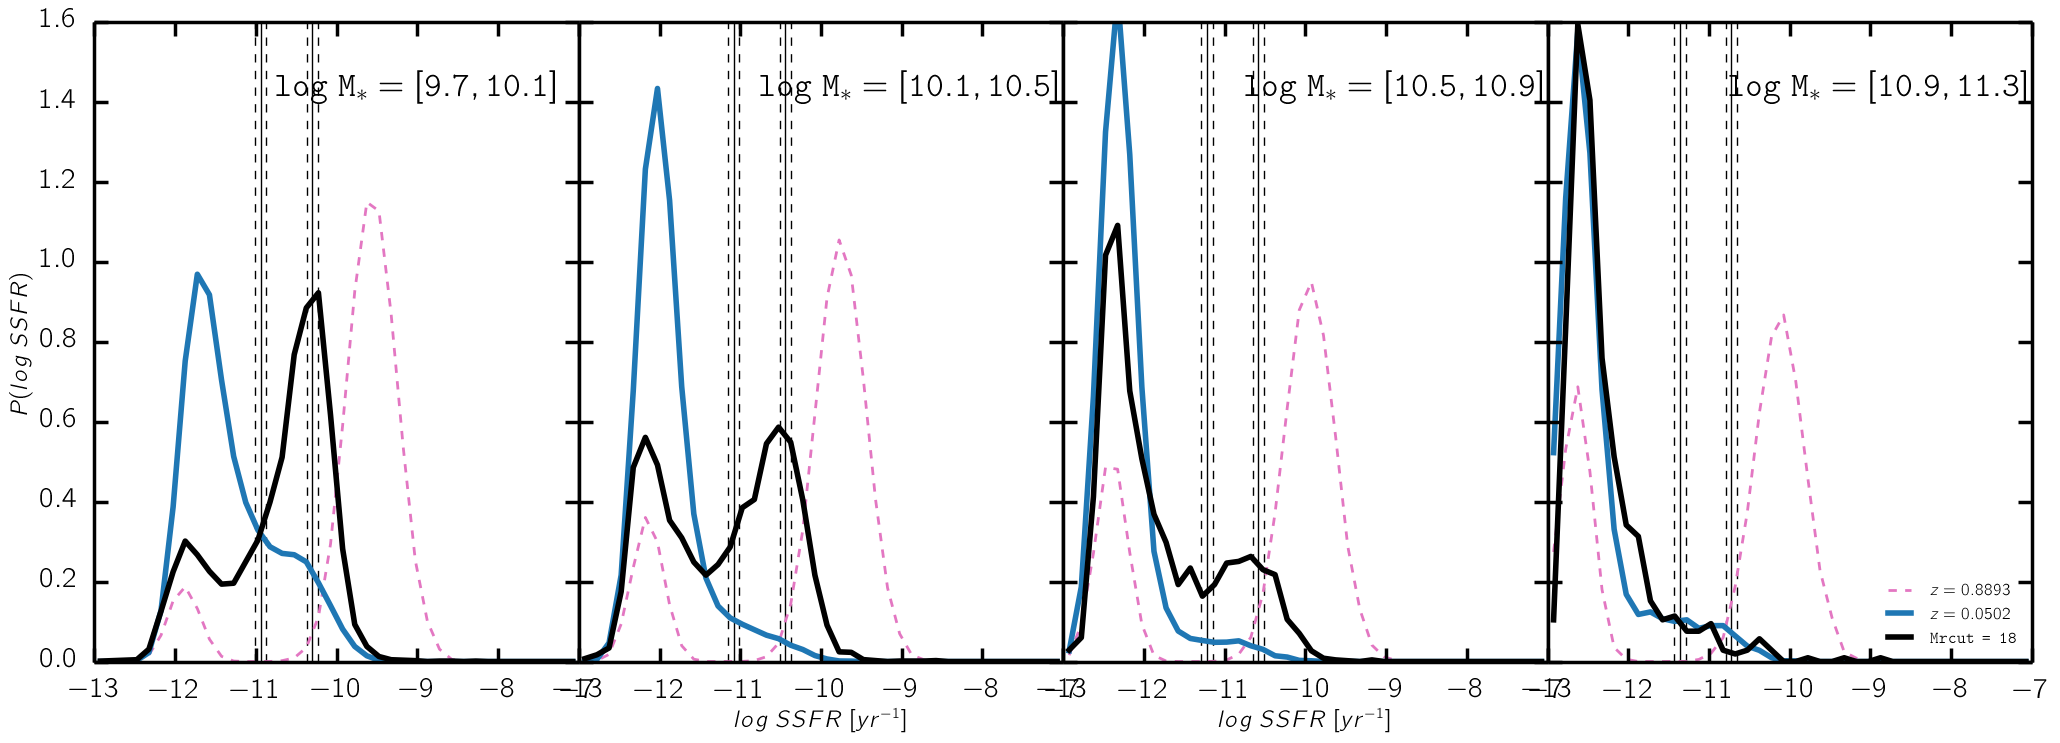
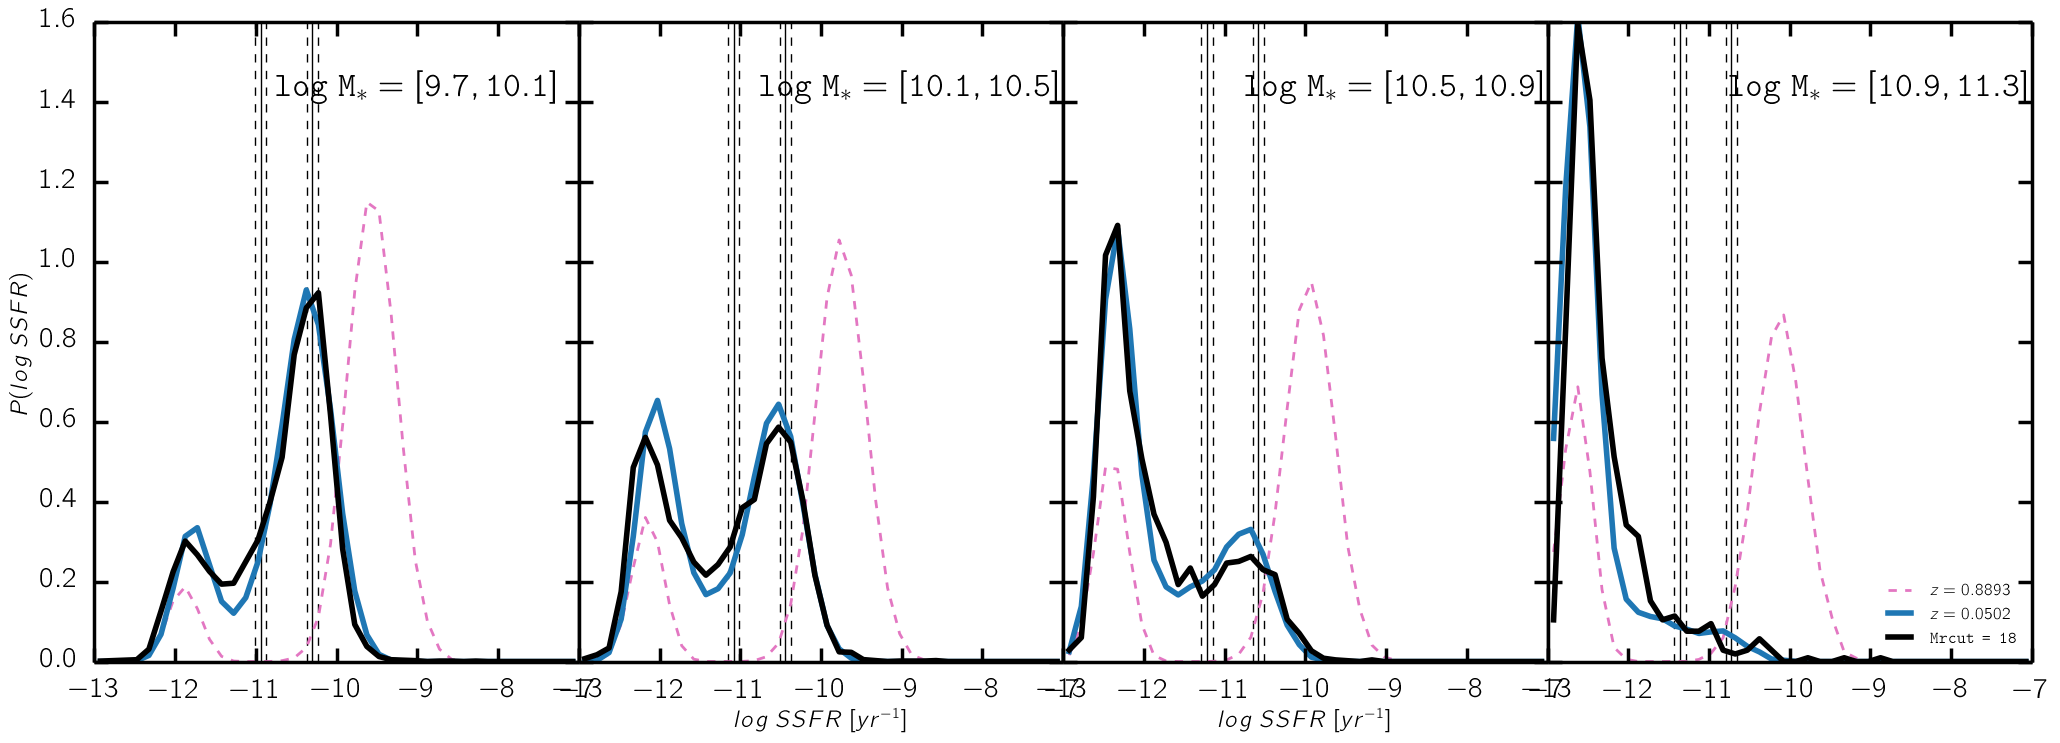
more matching fq

diff --git a/cenque.py b/cenque.py
@@ -620,20 +620,21 @@ def EvolveCenQue(origin_nsnap, final_nsnap, mass_bin=None, **kwargs):
             elif (mass_bins.mass_mid[i_m] < 11.5): 
                 alpha = 2.0 
             '''
-            alpha = 3.0
-            quenching_fraction = 0.1 * (mass_bins.mass_mid[i_m] - 9.5) * (1.8 - child_cq.zsnap)**alpha + 0.05 
+            alpha = 1.75
+            quenching_fraction = 0.025 * (mass_bins.mass_mid[i_m] - 9.5) * (1.8 - child_cq.zsnap)**alpha + 0.2
             quenching_fractions.append(quenching_fraction)
 
             quenching_fraction = np.float(ngal_2quench)/np.float(ngal_totalq)
             quenching_fractionss.append(quenching_fraction)
             
-            alpha = 3.0
-            fqing1 = 0.1 * (mass_bins.mass_mid[i_m] - 9.5) * (1.8 - child_cq.zsnap)**alpha + 0.05
+            alpha = 1.75
+            fqing1 = 0.025 * (mass_bins.mass_mid[i_m] - 9.5) * (1.8 - child_cq.zsnap)**alpha + 0.2
                 
             fqing2 = np.float(ngal_2quench)/np.float(ngal_totalq)
 
-            if (mass_bins.mass_mid[i_m] < 10.75): # and (fqing2 > fqing1): 
+            if (mass_bins.mass_mid[i_m] < 10.75) and (fqing2 > fqing1): 
                 quenching_fraction = fqing1
+                print '####################################### FQING 2 > FQING 1'
             else: 
                 quenching_fraction = fqing2
 
